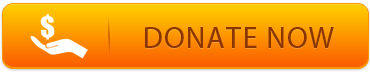
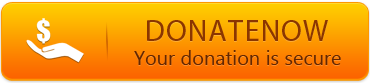
updated

diff --git a/sites/all/themes/alim/page.tpl.php b/sites/all/themes/alim/page.tpl.php
@@ -809,6 +809,10 @@ if(arg(3)=='compare') {
 					</div>
 					<div style="float:left;"><h1> <?php print print_masterhead(); ?>  </h1></div>		
 				</div>
+				<div class="inner_donate">  
+						<div> <a href="https://donatenow.networkforgood.org/alim?code=alim.org" target="_blank" ><div style="margin-top: 15px;margin-left: -50px;float: right;width: 200px; "> <img  src="/sites/all/themes/alim/images/donate-button.png"  width="230" /></div></a></div>
+			</div>			
+
 				<div id="search" align="left"><div id="search_content"><?php if ($search_box): ?><div ><?php print $search_box ?></div><?php endif; // search box  ?></div></div>
 			</div>
 			<div style="clear:both"></div>
@@ -817,12 +821,7 @@ if(arg(3)=='compare') {
 				<?php print Submenu_all(); ?>
 				<?php if ($menu_tab): print $menu_tab; endif; ?>
 				<div style="clear:both"></div>
-			</div>
-		
-			<div class="inner_donate">  
-						<div> <a href="https://donatenow.networkforgood.org/alim?code=alim.org" target="_blank" ><div style="margin-top: -3px;margin-left: -5px;float: right;width: 200px; "> <img  src="/sites/all/themes/alim/images/donate-button.png"  width="200" /></div></a></div>
-			</div>			
-		
+			</div>		
 		 </div>
 		<div style="clear:both"></div>
 			<div id="con_div">
@@ -963,6 +962,9 @@ if(arg(3)=='compare') {
 	<div id="footer_div" align="center" >
 	  <div id="footer_content" align="center">
 		  <div id="footer_head" align="center"><a  href="<?=$base_path?>" title="Home"><img src="<?php print $base_url."/".$theme_path;?>/images/alim-logo1.png" border="0"  width="262" height="61" /></a><br />&nbsp;&nbsp;&nbsp;&nbsp;&nbsp;&nbsp;&nbsp;&nbsp;&nbsp;&nbsp;&nbsp;&nbsp;&nbsp;&nbsp;&nbsp;&nbsp;&nbsp;&nbsp;&nbsp;&nbsp;&nbsp;&nbsp;&nbsp;&nbsp;&nbsp;&nbsp;&nbsp;&nbsp;&nbsp;&nbsp;&nbsp;&nbsp;&nbsp;&nbsp;&nbsp;&copy; All Rights 2010 Alim.org</div>
+		  <div class="inner_donate">  
+						<div> <a href="https://donatenow.networkforgood.org/alim?code=alim.org" target="_blank" ><div style="margin-top: 10px;margin-left: -5px;float: right;width: 200px; "> <img  src="/sites/all/themes/alim/images/donate-button.png"  width="230" /></div></a></div>
+			</div>
 		  
 		  <div id="footer_menu"><?php print $footer; ?></div>
 	  </div>
